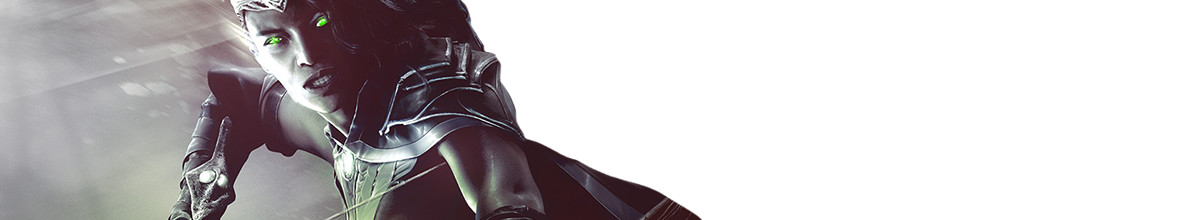
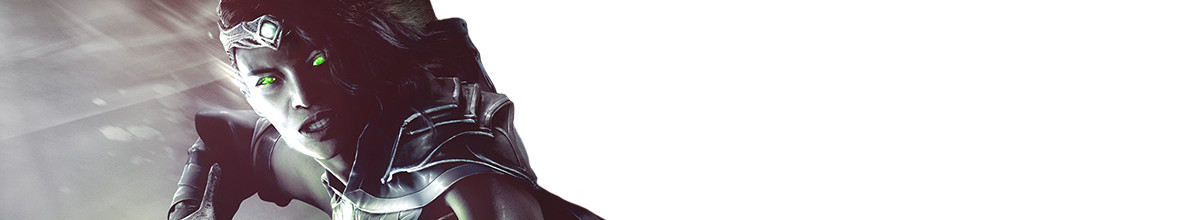
Arena top and preview update
Updated the preview and top banner for arena project

diff --git a/_portfolio/arena.md b/_portfolio/arena.md
@@ -16,7 +16,7 @@ featured:   false
 weight:     2
 ---
 
-Ads for Magic: The Gathering Arena Open Beta that went live on September 28, 2018. This was a quick turn around project that capsolated ads for multiple gaming journalism sites such as Eurogamer. Other asssets, such as headers & featured images were created as well.
+Ads for Magic: The Gathering Arena Open Beta that went live on September 27, 2018. This was a quick turn around project that capsolated ads for multiple gaming journalism sites such as Eurogamer. Other asssets, such as headers & featured images were created as well.
 
 Magic: The Gathering and Magic: The Gathering Arena Open Beta are products of Wizards of the Coast, LLC & Hasbro, Inc.
 © 1995-2018 Wizards of the Coast LLC, a subsidiary of Hasbro, Inc. All Rights Reserved.
